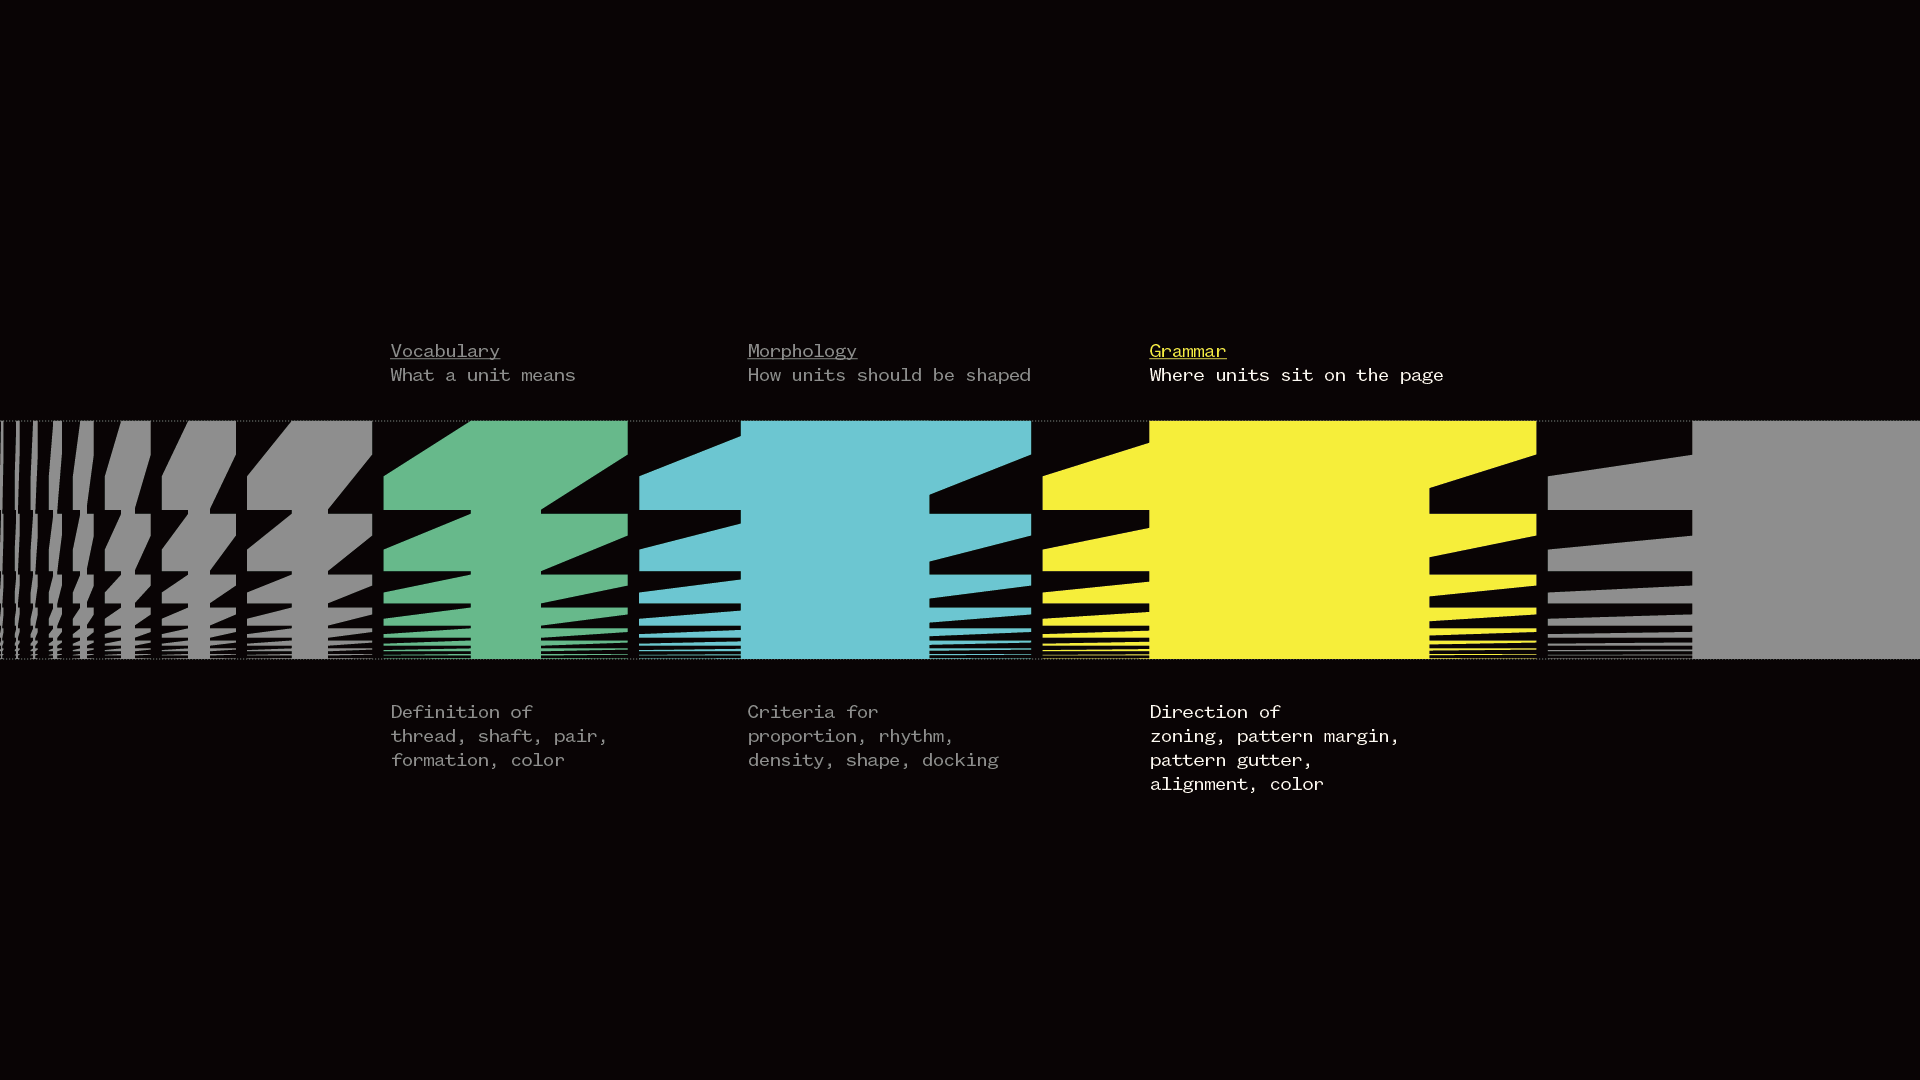
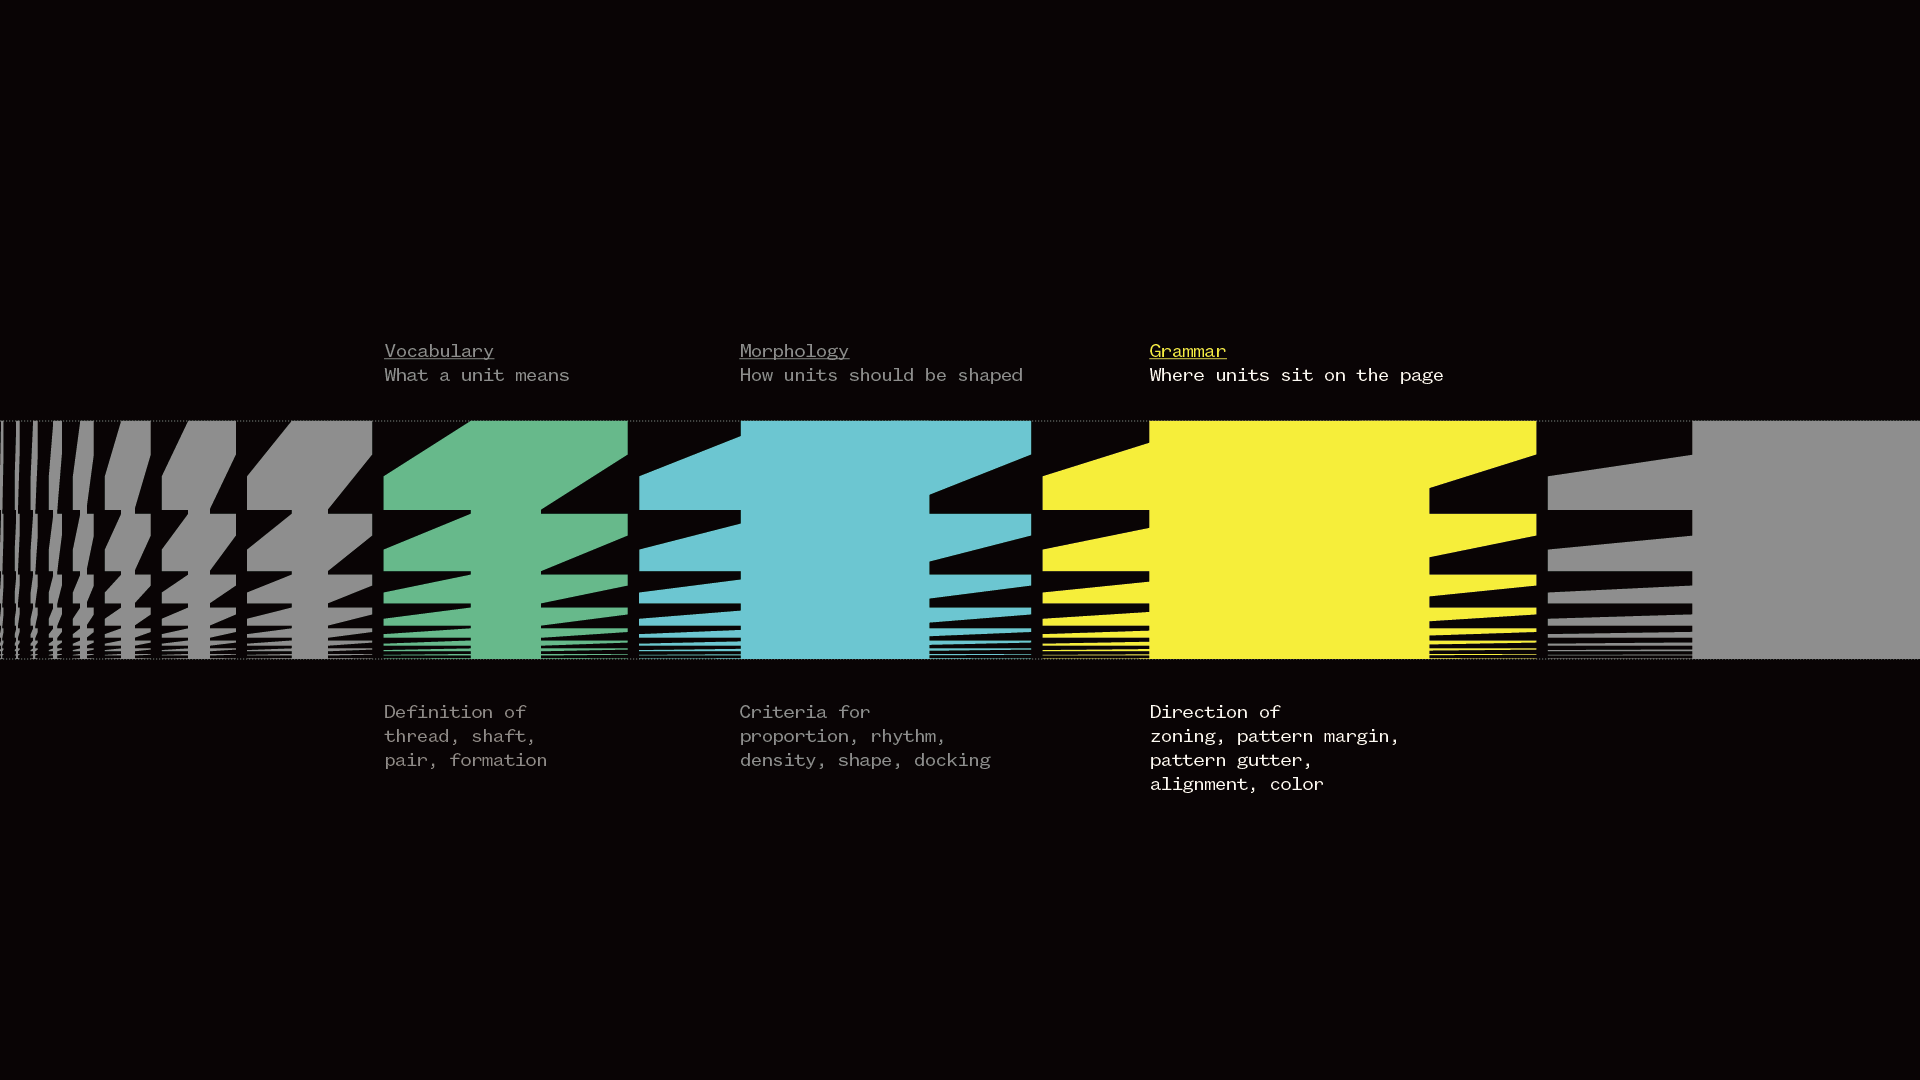
[CC-6] 4번 장표 사소: 폴더 장표 교체(Signature scalability 1/33 · usage-do-1 +82 · Graphic Pattern alignment 4장(내용 기준 do-1 ↔ dont-1 자리) · grid-dont-2 · gutter-do · Graphic Unit param-thread-sides · formation-scale · Vocabulary/Morphology/Grammar overview color 정리) · Signature overview 잔여 가이드선 제거 · Sub Symbol c

diff --git a/AGENTS.md b/AGENTS.md
@@ -29,6 +29,18 @@
 | E15 | 2026-11-13 | Graphic Unit › Pair › 파동(`pair-pulse`) | 본문 "중심대칭 또는 좌우대칭" ↔ 장표는 좌우대칭 하나 | 장표는 경우 하나를 보여 줌. 본문 유지 |
 | E16 | 2026-11-13 | Applications 페이지 본문(예: Print "Air White 바탕 기본") | 다른 페이지 · 장표와 어긋남 | 디자이너가 페이지 전체를 다시 쓸 예정 — 그 전까지 지적 · 수정 보류 |
 | E17 | 2026-11-13 | 참조 링크 "유닛 컬러" — Graphic Unit › Shaft › 다양성 → Graphic Pattern › Color, Graphic Pattern › Color → Graphic Unit › Color | 같은 라벨이 서로 반대 페이지로 감 | 문맥마다 가리키는 내용이 다름(다양성 = 여러 색을 쓰는 조합 규칙, Pattern › Color = 색의 뜻). 그대로 둠 |
+| E18 | 2026-11-14 | Symbol › Don'ts 1번째(`dont-1` 가로 약 10%) · Signature › Don'ts 9번째(`dont-9` 세로 약 6%) | "늘리지 마세요" 인데 왜곡이 약해 잘 안 보임 | 실제로 흔히 일어날 법한 실수의 크기라 이 정도가 맞음 |
+| E19 | 2026-11-14 | Symbol › Usage › Placement (`usage-placement` A3 칸) | 밝은 심볼 · 흐린 심볼이 한 칸에 둘, 범례 없음 | 디자이너가 그대로 두기로 함(의도된 표현) |
+| E20 | 2026-11-14 | Symbol › Geometry · Lockup 가로형 · Signature › Partner Lockup 가로형 장표 | 본문에 없는 값(1 unit = H/30 · W = (29/30)H · 5° · 콜라보 기호 (2/3)W)이 장표에만 있음 | 도면 정보라 장표에만 둠. 본문에 옮기지 말 것 |
+| E21 | 2026-11-14 | Signature › Inversion 세로형(`inversion-v` "Align center") ↔ Descriptor 세로형(`descriptor-v` H/100 왼쪽 보정) | 다크에서 H/100 보정이 빠진 것처럼 보임 | 라이트에서 한 번 보정한 위치를 기준으로 하므로 문제없음 |
+| E22 | 2026-11-14 | Typography › Character Set Mono (`charset-mono` Small figures 행) | 분수 글리프가 두 줄로 깨진 것처럼 보임 | 공간 활용을 위한 원래 글리프 디자인 |
+| E23 | 2026-11-14 | Colors › Don'ts 6장 좌하단 "Typography Checklist" | 컬러 장표에 타이포 라벨 | 이 섹션 공통 샘플 목업이라 문구 내용은 중요하지 않음 |
+| E24 | 2026-11-14 | Colors › In Use 3번째 (`color-in-use-3` "08:00 - 11:00 PM") | 시작 시각에 AM/PM 없음 | 앞 시각은 뒤 표기로 유추하는 흔한 표기 |
+| E25 | 2026-11-14 | Graphic Unit › Parameters (`param-thread-compression` "compression -1 / -2") | + 방향 예시가 없음 | 한 장표에서 둘 다 보이려고 반전하면 직관성이 떨어지고, 파라미터당 장표 2장은 양식 불일치라 타협. − 부호로 유추 |
+| E26 | 2026-11-14 | Graphic Unit › Color (`color-gray` · `color-blue-green` SVG) | 캡션에 없는 Builder Neon 유닛이 섞여 있음 | 그 캔버스 안에서 그레이(블루 · 그린)의 역할을 보여 주는 그림이라 상관없음 |
+| E27 | 2026-11-14 | Graphic Unit › Morphology › Proportion | 4장만 Air White 유닛 | 분위기 환기, 그리고 컬러보다 형태에 집중시키려는 의도 |
+| E28 | 2026-11-14 | Graphic Unit › Pair (`pair-peers` · `pair-rivals` 라벨 Peer · Rival) | 캡션은 복수(Peers · Rivals), 장표 라벨은 단수 | 라벨이 두 유닛 중 하나에 붙어 있어 단수가 맞음 |
+| E29 | 2026-11-14 | Graphic Pattern › Color (`color-do-1` · `color-do-3` 등) | 캡션의 색 나열 순서 ↔ 장표의 색 순서 | 비주얼상 좋아서 장표 순서는 섞음. 캡션도 그대로 |
 
 결정 대기 중인 항목은 `research/content-check/findings.csv`(로컬 전용, git 제외)에 있습니다 — 여기 오르기 전까지는 예외가 아닙니다.
 

diff --git a/content/guide.en.md b/content/guide.en.md
@@ -890,7 +890,7 @@ The **EO graphic unit** (hereafter, the unit) is the smallest element of the gra
 
 
 ### Graphic Unit
-#### + Color {layout=grid-2} {ratio=16:9} {zoom=1.042}
+#### + Color {layout=grid-2} {ratio=16:9} {zoom=1.042} {bg-color}
 Color shows who the protagonist of a graphic is, what forms the environment, and where a state changes. Use it as a supporting device that complements the nuance of Vocabulary. For more specific combination rules, see [[graphic-pattern#color]].
 
 **Apply only one color to each unit.**
@@ -1037,7 +1037,7 @@ The difference between the widths of the thread's top and bottom edges. It deter
 ![shape-dont]{dont} Thread with top · bottom outside the recommended range
 
 
-### Morphology {layout=grid-4}
+### Morphology {layout=grid-4} {zoom=2.4}
 #### Docking
 Docking is the way to handle the seam when two units of the same color are joined along the shaft axis to form one long unit. At the joint, the thread spacing must continue the rhythm of both sides, which requires the two units to share the same shaft size and thread gutter. Simply butting them together removes the spacing at the seam and makes the thread rhythm jump.
 ![docking-do]{do} Docking that carries the rhythm through the seam
@@ -1080,7 +1080,7 @@ When drafting graphics for a new metaphor in the EO Graphic Builder workspace, y
 ![grid-do-1]{do} Areas divided in ideal proportion
 ![grid-dont-1]{dont} A graphic pattern area that is too small, with a graphic pattern competing for hierarchy with other elements
 ![grid-do-2]{do} A graphic pattern area divided along columns and rows
-![grid-dont-2]{dont} A layout with the graphic pattern area placed at the left or bottom
+![grid-dont-2]{con} A layout with the graphic pattern area placed at the left or bottom
 
 
 ### Grammar {layout=grid-2}
@@ -1110,9 +1110,9 @@ The pattern gutter is the space between units within a graphic pattern. Set it b
 There are no specific restrictions on combining horizontal and vertical units, but keeping each unit's form close to the recommendations in [[graphic-unit#morphology|Morphology]] helps create a fluid pattern.
 
 - Once the units are aligned in the graphic pattern area, look closely at the shaft and thread lines that happen to form between intersecting units. Unintended misalignment can undermine the quality of the entire pattern. Fine-tune the [[graphic-unit#parameters|compression]] of vertical units and the shaft size of horizontal units so the shaft lines of horizontal units line up with the thread lines of vertical units. We recommend this as the final step in completing a layout.
-![alignment-dont-1]{dont} A pattern with misaligned shaft and thread lines
-![alignment-do-1]{do} A pattern with shaft and thread lines deliberately aligned
-![alignment-do-2]{do} An application of a pattern with deliberately aligned lines
+![alignment-dont-1]{dont} A pattern where the thread lines of crossing units are misaligned
+![alignment-do-1]{do} A pattern where the thread lines of crossing units are deliberately aligned
+![alignment-do-2]{do} A pattern with shaft and thread lines deliberately aligned
 ![alignment-dont-2]{dont} A pattern with noticeably unbalanced lines
 
 
